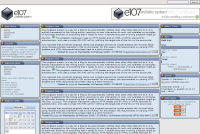
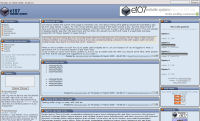
Theme tidy.
svn path=/trunk/e107_0.7/; revision=2427

diff --git a/e107_themes/e107v4a/style.css b/e107_themes/e107v4a/style.css
@@ -14,6 +14,19 @@ a:hover {
 	color: #2a3236;
 	text-decoration: underline;
 }
+
+#header {
+	background-image : url(images/header.png);
+	background-repeat: repeat-x;
+	border-bottom: #000 1px solid;
+	height: 80px;
+}
+
+ul, ol {
+	margin-top: 0;
+	margin-bottom: 0;
+}
+
 .fcaption a {
 	color: #ffffcc;
 	text-decoration: underline;
@@ -27,13 +40,13 @@ a:hover {
 	color:#5d6e75;
 }
 .smallblacktext {
-	font: normal 11px tahoma, verdana, arial, helvetica, sans-serif;
+	font: normal 7pt verdana, tahoma, arial, helvetica, sans-serif;
 	color:#000;
 }
 .indent{
-	padding: 3px 3px 3px 3px;
+	padding: 3px;
 	margin: 5px;
-	font: 11px verdana, tahoma, arial, sans-serif;
+	font: 9px verdana, tahoma, arial, sans-serif;
 	color: #000060;
 	border: 1px solid;
 	background-color: #E3E2D7;
@@ -70,6 +83,11 @@ blockquote {
 	border: #5e5d63 1px solid;
 	color: #000000;
 	font: 10px verdana, tahoma, arial, helvetica, sans-serif;
+}
+.tbox.chatbox {
+	width: 80%;
+	margin-left: auto;
+	margin-right: auto;
 }
 .nextprev{
 	background-color: #eaeef2;

diff --git a/e107_themes/e107v4a/theme.php b/e107_themes/e107v4a/theme.php
@@ -11,8 +11,8 @@
 |     GNU General Public License (http://gnu.org).
 |
 |     $Source: /cvs_backup/e107_0.7/e107_themes/e107v4a/theme.php,v $
-|     $Revision: 1.8 $
-|     $Date: 2005-03-20 22:57:17 $
+|     $Revision: 1.9 $
+|     $Date: 2005-03-21 10:50:44 $
 |     $Author: stevedunstan $
 +----------------------------------------------------------------------------+
 */
@@ -26,22 +26,21 @@ if(!defined("e_THEME")){ exit; }
 // [theme]
 
 $themename = "e107.v4";
-$themeversion = "1.0";
-$themeauthor = "jalist";
+$themeversion = "2.0";
+$themeauthor = "Steve Dunstan [jalist]";
+$themeemail = "jalist@e107.org";
+$themewebsite = "http://e107.org";
 $themedate = "11/06/2003";
 $themeinfo = "";
+$xhtmlcompliant = TRUE;
+$csscompliant = TRUE;
 
 define("THEME_DISCLAIMER", "<br /><i>".LAN_THEME_6."</i>");
-
 
 // [layout]
 
 $layout = "_default";
 $logo = THEME."images/bullet3.gif";
-
-
-
-
 
 $HEADER .=
 "
@@ -51,14 +50,14 @@ $HEADER .=
 {CUSTOM=clock}
 </td>
 <td style='text-align:right'>
-{CUSTOM=search}
+{CUSTOM=search+25+".THEME."images/search.png+18+19}
 </td>
 </tr>
 </table>
-<table style='width:100%; background-color:white' cellspacing='3' class='topborder'>
+<table style='width:100%;' cellspacing='3' id='header'>
 <tr>
-<td colspan='2' style='text-align:left'>
-{LOGO}
+<td colspan='2' style='text-align:left; vertical-align: middle;'>
+<img src='".THEME."images/logo.png' alt='' /> [ {SITENAME} ]
 </td>
 <td style='text-align:right'>
 {BANNER}

diff --git a/e107_themes/e107v4a/languages/English.php b/e107_themes/e107v4a/languages/English.php
@@ -11,8 +11,8 @@
 |     GNU General Public License (http://gnu.org).
 |
 |     $Source: /cvs_backup/e107_0.7/e107_themes/e107v4a/languages/English.php,v $
-|     $Revision: 1.4 $
-|     $Date: 2005-03-20 22:58:28 $
+|     $Revision: 1.5 $
+|     $Date: 2005-03-21 10:50:01 $
 |     $Author: stevedunstan $
 +----------------------------------------------------------------------------+
 */
@@ -22,6 +22,6 @@ define("LAN_THEME_2", "Comments are turned off for this item");
 define("LAN_THEME_3", "Read the rest...");
 define("LAN_THEME_4", "Posted by");
 define("LAN_THEME_5", "on");
-define("LAN_THEME_6", "e107.v4 theme by jalist");
+define("LAN_THEME_6", "e107.v4 theme by <a href='http://e107.org' rel='external'>jalist</a>");
 
 ?>

diff --git a/e107_themes/crahan/theme.php b/e107_themes/crahan/theme.php
@@ -27,6 +27,10 @@ $themewebsite = "http://e107.org";
 $themedate = "29/01/2005";
 $themeinfo = "Based on the theme by CraHan at his homepage <a href='http://n00.be' rel='external'>n00.be</a>, design used with permission.";
 define("STANDARDS_MODE", TRUE);
+$xhtmlcompliant = TRUE;
+$csscompliant = TRUE;
+
+define("THEME_DISCLAIMER", "<br /><i>".LAN_THEME_1."</i>");
 
 $logo = "logo".rand(1, 4);
 
